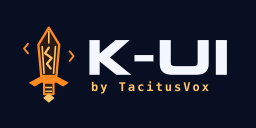
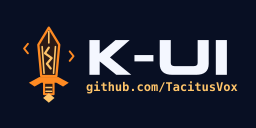
Branding: credit github.com/TacitusVox in the launcher header
The launcher header (launcher-brand.png, shown at 128x64 in the menu)
said "by TacitusVox"; the boot-disc badge already credits
github.com/TacitusVox. The header now uses the same GitHub link, rendered
from the shared badge SVG by tools/boot_badge.py at the same 12 px bold
DejaVu Sans Mono, with no letter spacing so its 21 characters fit
(x=86..243 of 256). Rebuilding also re-renders the badge PNG and MR,
which come out byte-identical to their pins. generate_shell_art.py pins
the new header and src/dreamcast/shell_art.inc carries its pixels. The
startup splash and boot backdrop are unchanged.

Claude-Session: https://claude.ai/code/session_01TkXzSQy3nZ7DrNbTPZAc6E

Changed region(s): [[0.3125, 0.625, 0.9375, 0.75]]

diff --git a/tools/boot_badge.py b/tools/boot_badge.py
@@ -129,7 +129,7 @@ def rebuild_branding():
         ET.register_namespace("", namespace[1:-1])
         header = ET.Element(namespace + "svg", {
             "width": "256", "height": "128", "viewBox": "0 0 256 128"})
-        ET.SubElement(header, namespace + "title").text = "K-UI Tyrfing by TacitusVox"
+        ET.SubElement(header, namespace + "title").text = "K-UI Tyrfing, github.com/TacitusVox"
         ET.SubElement(header, namespace + "rect", {
             "width": "256", "height": "128", "fill": "#080f23"})
         for item in ET.parse(source).getroot():
@@ -138,10 +138,12 @@ def rebuild_branding():
             if transform:
                 group = ET.SubElement(header, namespace + "g", {"transform": transform})
                 group.append(item)
+        # The credit is the maintainer's GitHub link, as on the badge; without
+        # letter spacing its 21 characters stay inside the 256-pixel header.
         ET.SubElement(header, namespace + "text", {
-            "x": "91", "y": "91", "font-family": "DejaVu Sans Mono, monospace",
-            "font-size": "12", "font-weight": "bold", "letter-spacing": "2",
-            "fill": "#ffc56a"}).text = "by TacitusVox"
+            "x": "86", "y": "91", "font-family": "DejaVu Sans Mono, monospace",
+            "font-size": "12", "font-weight": "bold", "letter-spacing": "0",
+            "fill": "#ffc56a"}).text = "github.com/TacitusVox"
         header_source = temp / "launcher.svg"
         ET.ElementTree(header).write(header_source, encoding="unicode")
         header_png = temp / "launcher.png"

diff --git a/tools/generate_shell_art.py b/tools/generate_shell_art.py
@@ -18,7 +18,7 @@ ROOT = Path(__file__).resolve().parents[1]
 OUTPUT = ROOT / "src/dreamcast/shell_art.inc"
 TRANSPARENT = 0xF81F
 SOURCES = {
[5 lines of base64/hex data omitted]
